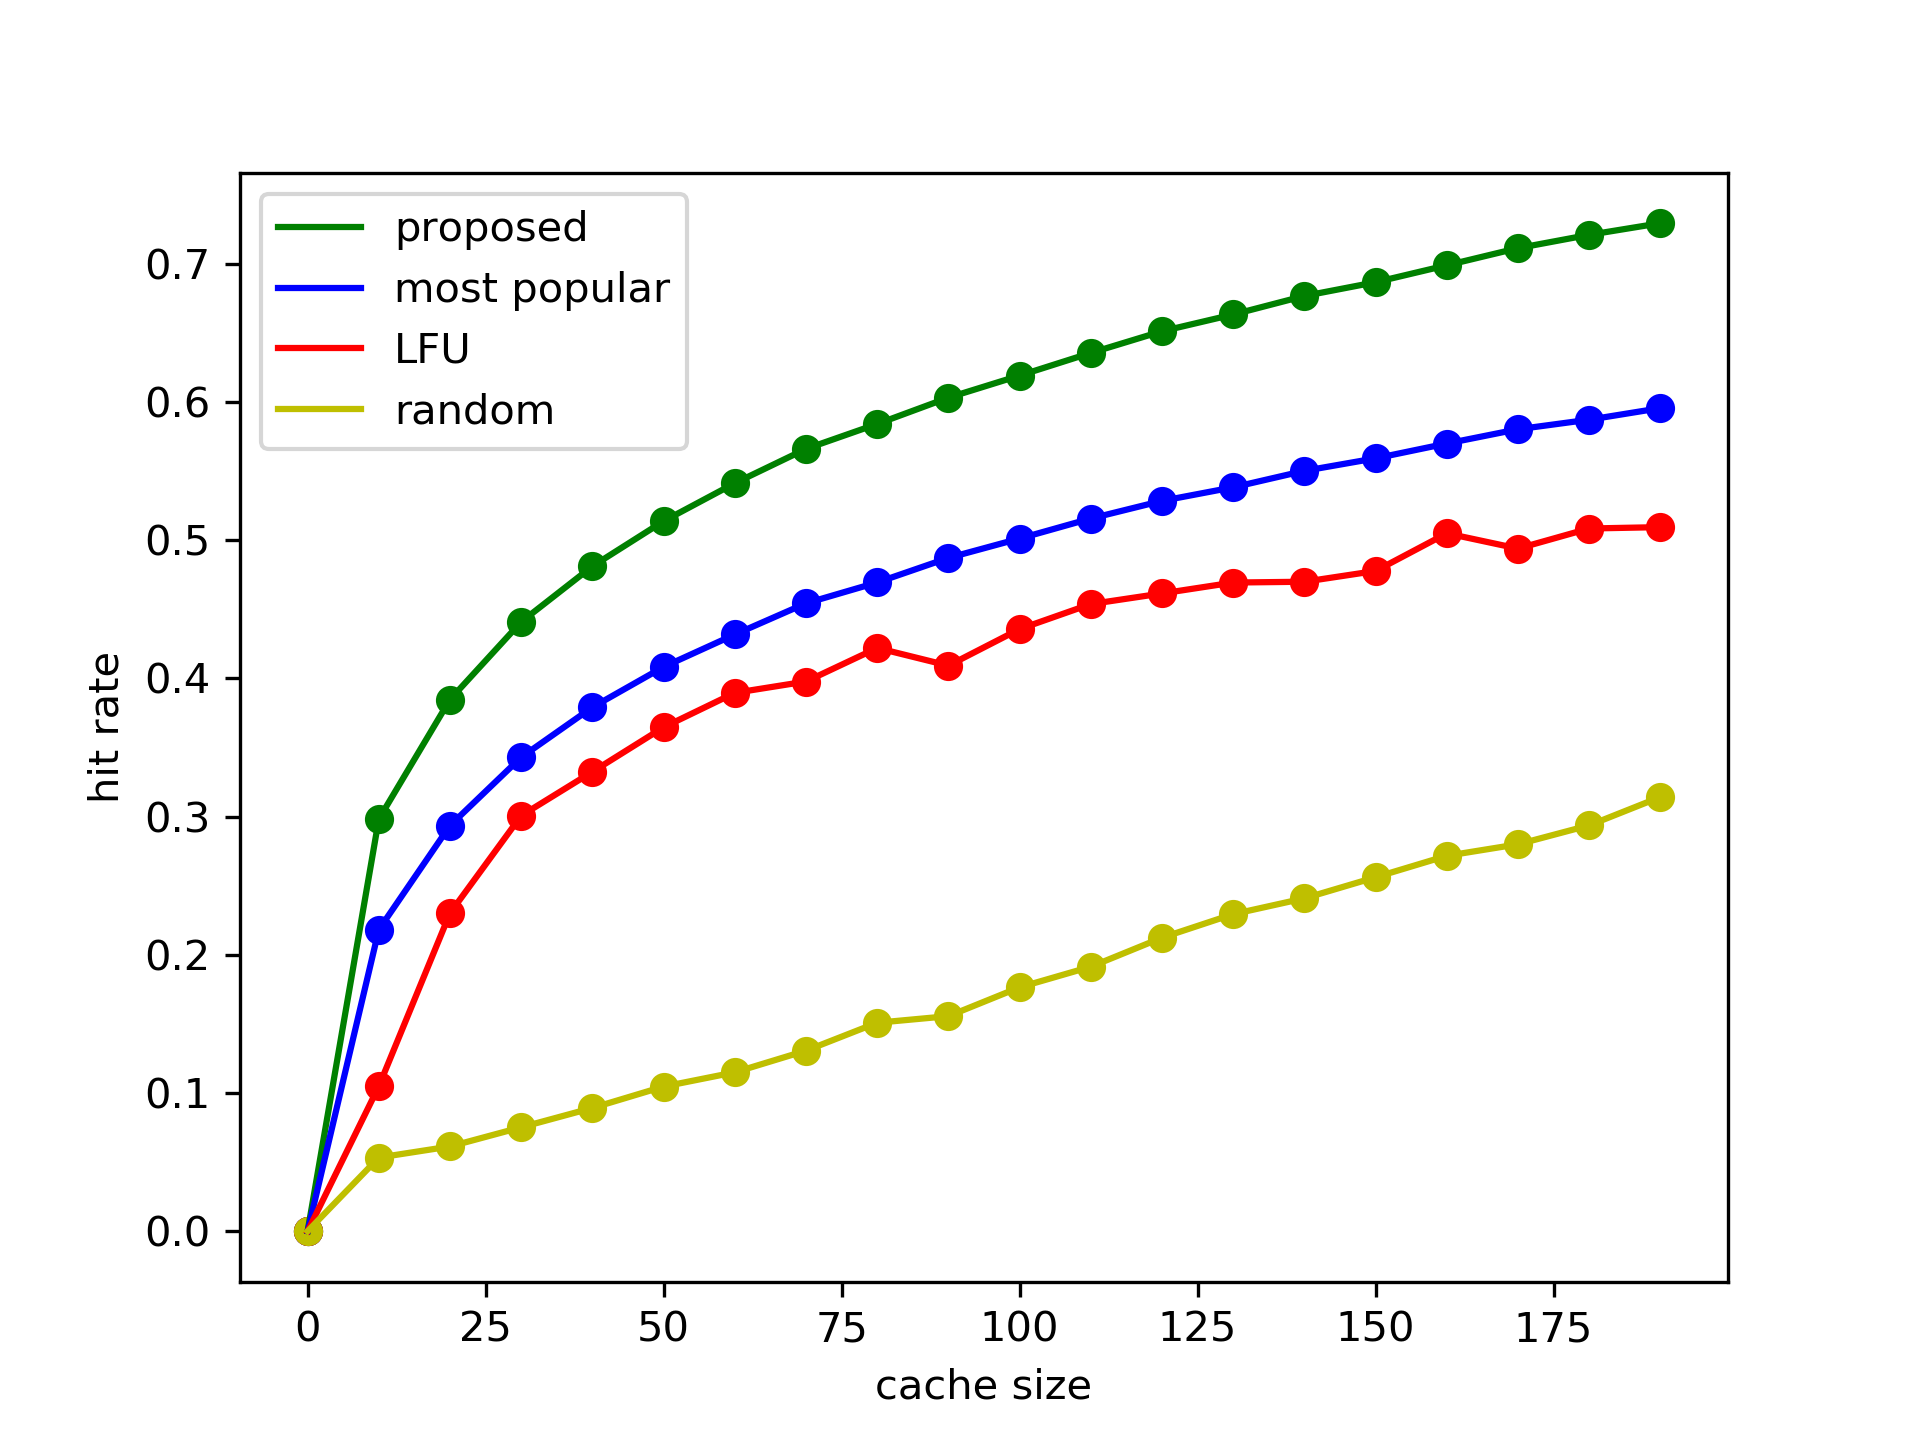
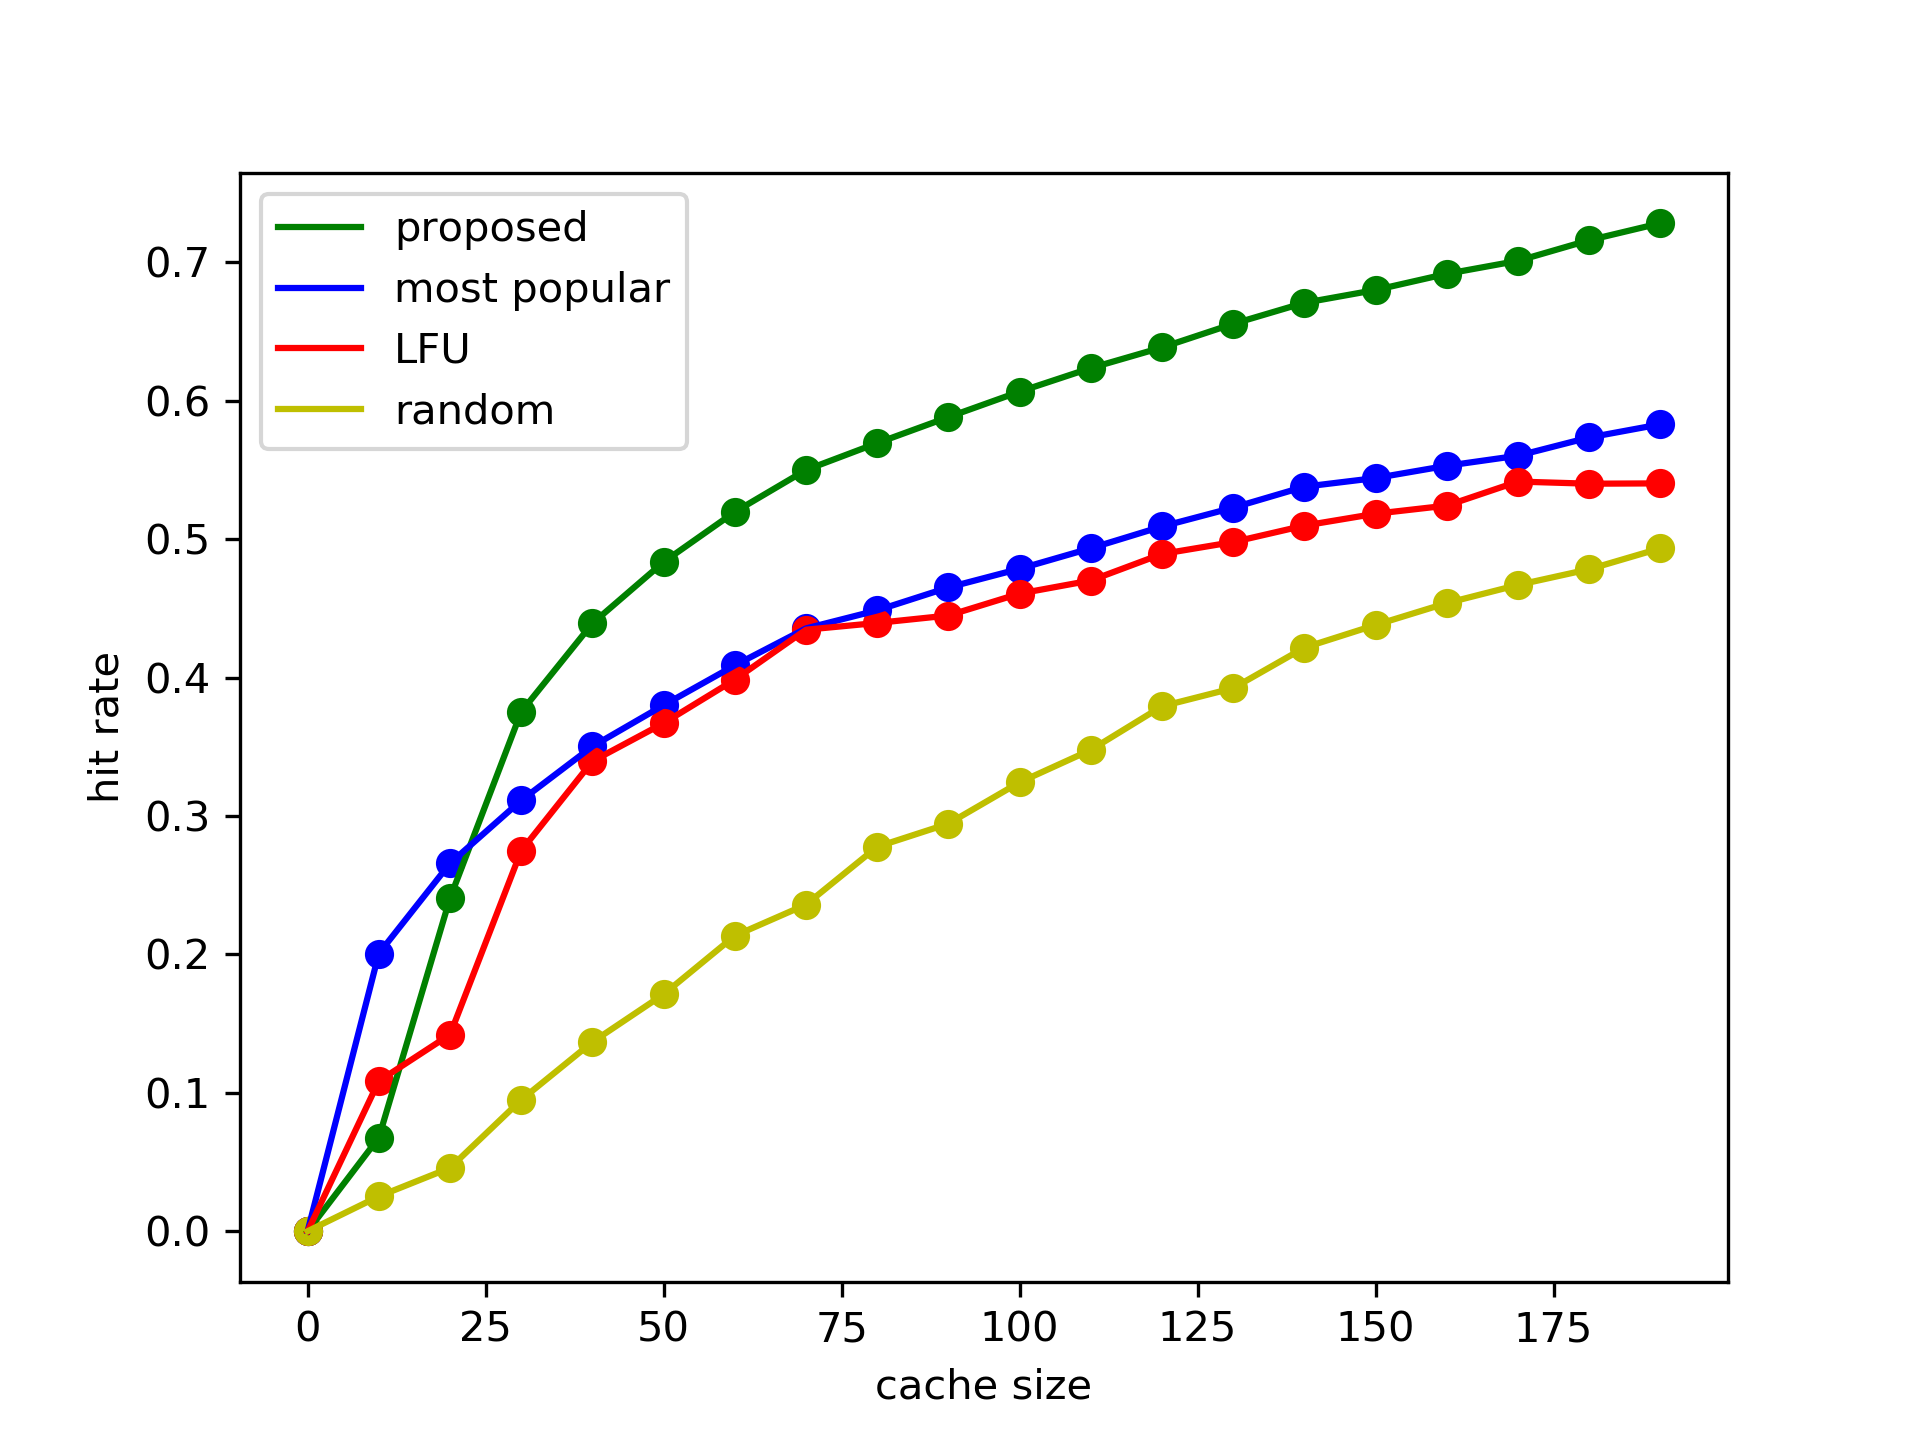
f

diff --git a/new.py b/new.py
@@ -5,7 +5,7 @@ import matplotlib.pyplot as plt
 people=1900+1005
 alpha=0.5
 file_num=5000
-capacity=100
+capacity=50
 interval=431
 b=4
 qa=0.5
@@ -220,18 +220,6 @@ for abcde in range(x_n):
 						day=72
 					if day>interval:
 						break
-					#print(len(CL4))
-				'''else:
-					for u in users:
-						if u.downloading:
-							bw=stats.rice.rvs(b)
-							q1.append(qa*math.log(bw)+qb*abs(bw-u.bt_1))
-
-							if :
-								u.watching=False
-								u.remain=0
-								u.cached=0	'''		
-
 
 	print(float(hit1)/count)
 	print(float(hit2)/count)

diff --git a/new2.py b/new2.py
@@ -1,9 +1,8 @@
 import math
 import numpy as np
-#import tensorflow as tf
 from scipy import stats
 import matplotlib.pyplot as plt
-people=1900
+people=1900+1005
 alpha=0.9
 file_num=1000
 capacity=0
@@ -73,7 +72,7 @@ for abcde in range(x_n):
 		for i in range(1, file_num+1):
 			files.append(file(i))
 
-		with open('CollegeMsg.txt','r') as f:
+		with open('allinone.txt','r') as f:
 			q1=list()
 			q2=list()
 			q3=list()
